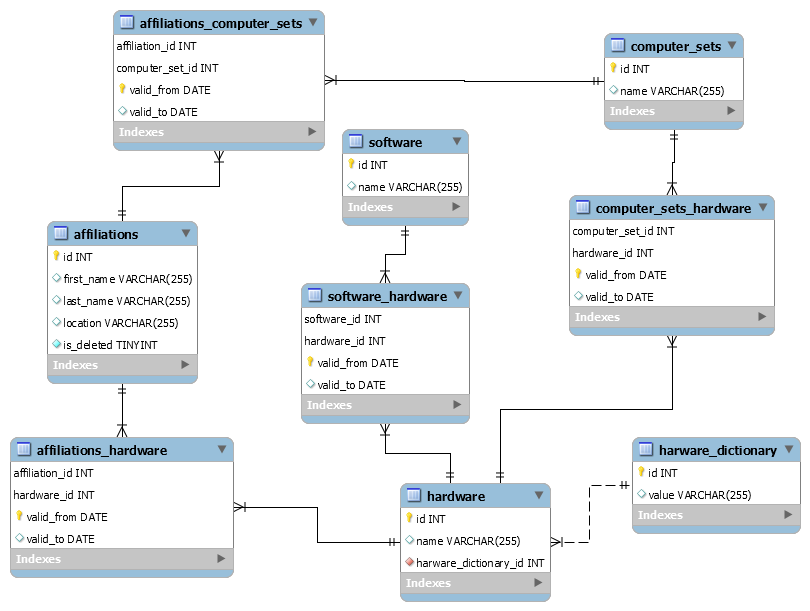
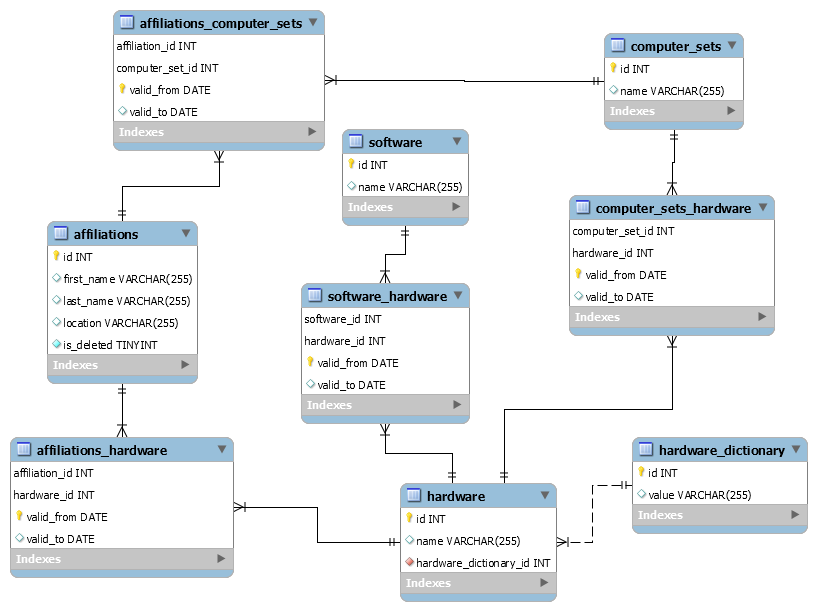
Poprawki w encji Hardware oraz w schemacie(również lietrówki). Hardware.hardware_dictionary_id jako not null.

diff --git a/backend/src/main/java/org/polsl/backend/entity/Hardware.java b/backend/src/main/java/org/polsl/backend/entity/Hardware.java
@@ -10,6 +10,7 @@ import javax.persistence.JoinColumn;
 import javax.persistence.ManyToOne;
 import javax.persistence.OneToMany;
 import javax.persistence.Table;
+import javax.validation.constraints.NotNull;
 import java.util.Set;
 
 /**
@@ -27,6 +28,7 @@ public class Hardware {
 
   @ManyToOne(cascade = CascadeType.ALL)
   @JoinColumn(name = "hardware_dictionary_id", referencedColumnName = "id")
+  @NotNull
   private HardwareDictionary hardwareDictionary;
 
   @OneToMany(mappedBy = "hardware")
